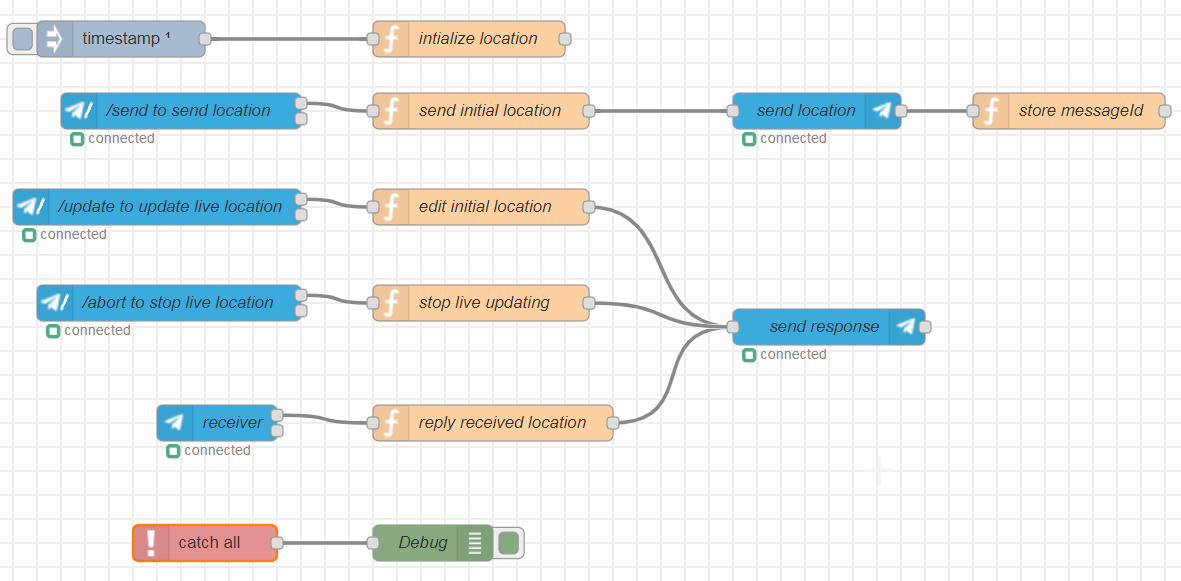
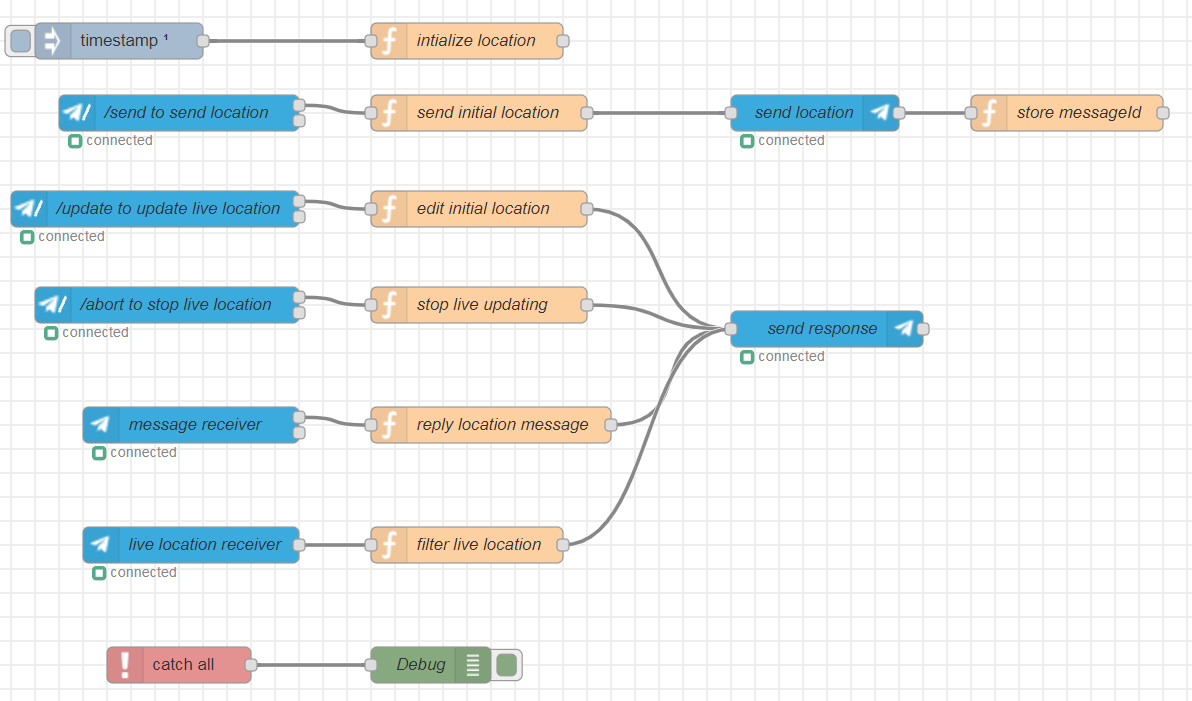
added live location receiver example

Changed region(s): [[0.0, 0.031, 1.0, 0.8365], [0.0914, 0.8985, 0.4572, 0.9914]]

diff --git a/telegrambot/99-telegrambot.js b/telegrambot/99-telegrambot.js
@@ -478,12 +478,12 @@ module.exports = function (RED) {
                 node.telegramBot.on(this.event, (botMsg) => {
                     var username;
                     var chatid;
-                    if (botMsg.from) {       //private, group, supergroup
-                        username = botMsg.from.username;
-                        chatid = botMsg.from.id;
-                    } else if (botMsg.chat) { //channel
+                    if (botMsg.chat) { //channel
                         username = botMsg.chat.username;
                         chatid = botMsg.chat.id;
+                    } else if (botMsg.from) {       //private, group, supergroup
+                        username = botMsg.from.username;
+                        chatid = botMsg.from.id;
                     } else {
                         node.error("username or chatid undefined");
                     }
@@ -540,7 +540,9 @@ module.exports = function (RED) {
                                     content: botMsg.text,
                                     editDate: botMsg.edit_date,
                                     date: botMsg.date,
-                                    from: botMsg.from
+                                    from: botMsg.from,
+                                    chat: botMsg.chat,
+                                    location: botMsg.location // for live location updates
                                 };
                                 break;
 

diff --git a/README.md b/README.md
@@ -326,6 +326,12 @@ msg.payload.options = {
 ![Alt text](images/TelegramBotLiveLocation.png?raw=true "Live Location Flow")
 [livelocation flow](examples/livelocation.json)
 
+## Receiving live location updates
+When a user sends his location then it is received by the standard message receiver node.
+But when a live location is updated, then you will receive the same message event as one would
+edit an already existing message in the chat (edit_message). The example above contains an event handler node that
+receives those message edits, and filters for the ones that contain a location. 
+
 
 ## Advanced options when sending messages.
 Text messages can be in markdown format to support fat and italic style. To enable markdown format
